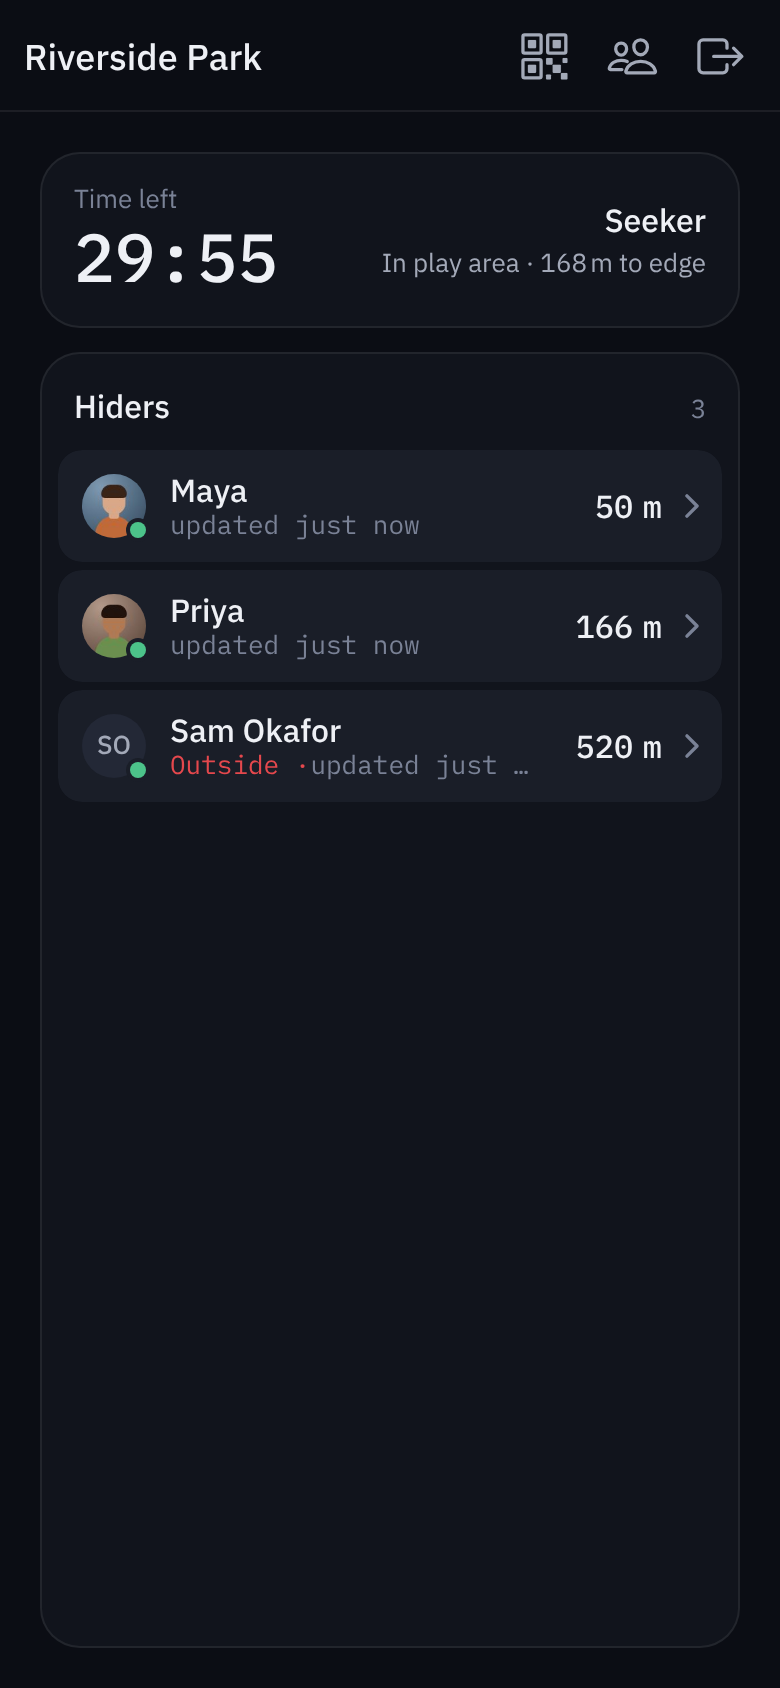
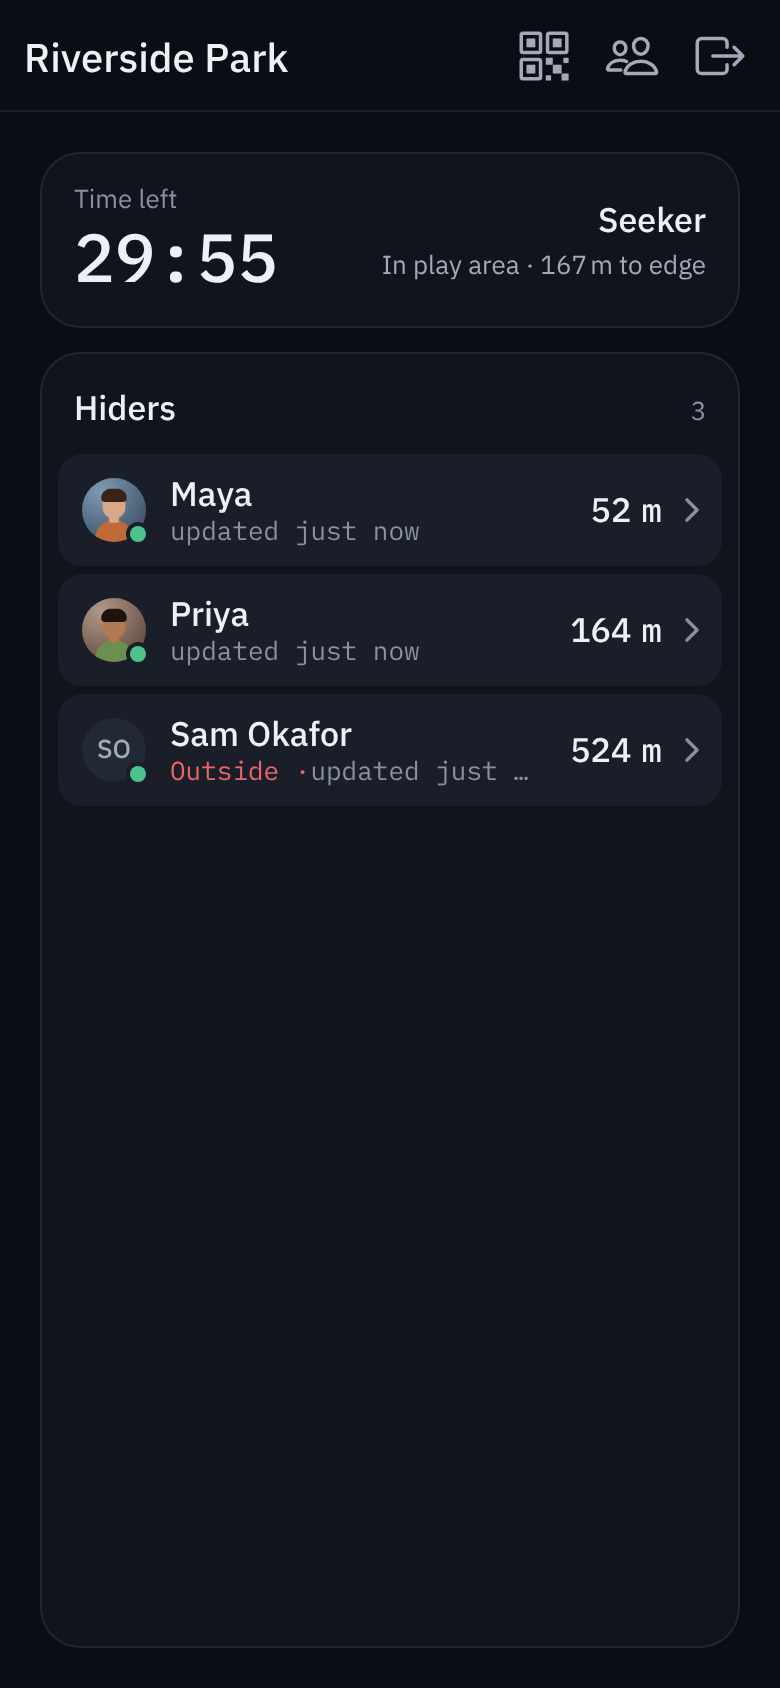
Bring text up to iOS sizes and WCAG AA contrast
Sizes follow iOS's default text styles: body 17 (was 16), secondary 15,
titles 20, headings 24, footnotes stay 13, and the map's 10px labels
reach 11-12. Body lines are 22px and heading lines 32px to match.

The dimmest grey (text-3) and the warning red fell below 4.5:1 on rows
and the selected row (as low as 3.8:1); both are lightened just enough to
pass on every surface. A check of every visible text on the main screens
finds nothing under 11px or under AA contrast, and the clipping audit is
clean at 320, 375 and 390px. Regenerates the walkthrough screenshots.

Claude-Session: https://claude.ai/code/session_01U4L74gDXuUMueiJ4CSkGKG

diff --git a/src/index.css b/src/index.css
@@ -64,11 +64,13 @@
   /* ---- Type ---- */
   --font-sans: "IBM Plex Sans", -apple-system, BlinkMacSystemFont, "Segoe UI", Roboto, sans-serif;
   --font-mono: "IBM Plex Mono", ui-monospace, "SF Mono", Menlo, monospace;
-  --fs-meta: 0.8125rem;    /* 13 / 16 */
-  --fs-caption: 0.875rem;  /* 14 / 20 */
-  --fs-body: 1rem;         /* 16 / 20 */
-  --fs-title: 1.125rem;    /* 18 / 24 */
-  --fs-heading: 1.375rem;  /* 22 / 28 */
+  /* Sized to iOS's default text sizes (body 17, footnote 13, nothing under
+     11), so the app reads like the rest of the phone at arm's length */
+  --fs-meta: 0.8125rem;    /* 13 / 16  footnote */
+  --fs-caption: 0.9375rem; /* 15 / 20  subheadline */
+  --fs-body: 1.0625rem;    /* 17 / 22  body */
+  --fs-title: 1.25rem;     /* 20 / 24  title 3 */
+  --fs-heading: 1.5rem;    /* 24 / 32 */
   --fs-page: 1.875rem;     /* 30 / 32 */
   --fs-figure: 2.75rem;    /* 44 / 48 */
 
@@ -81,8 +83,9 @@
   --hairline-color: rgba(238, 240, 245, 0.08);
   --hairline: 1px solid var(--hairline-color);
   --text-1: #eef0f5;
+  /* Every text colour clears WCAG AA (4.5:1) on every surface, ink-4 included */
   --text-2: #a3a9b8;
-  --text-3: #7a8296;
+  --text-3: #8990a2;
 
   /* ---- Accent: blaze orange, with dark text on it (7:1) ---- */
   --accent: #ff7b2c;
@@ -92,7 +95,7 @@
 
   /* ---- Semantic, toned for the ramp ---- */
   --positive: #4cc38a;
-  --negative: #e5484d;
+  --negative: #eb656a;
 
   /* ---- Motion: one curve, two durations ---- */
   --ease: cubic-bezier(0.22, 1, 0.36, 1);
@@ -166,7 +169,7 @@ body {
 ion-content {
   --background: var(--ink-1);
   font-size: var(--fs-body);
-  line-height: 1.25rem;
+  line-height: 1.375rem;
 }
 
 ion-content.ion-padding {
@@ -742,7 +745,7 @@ ion-card.targets-card ion-card-header.targets-card-header {
 
 ion-card.targets-card ion-card-title {
   font-size: var(--fs-body);
-  line-height: 1.25rem;
+  line-height: 1.375rem;
 }
 
 .targets-count {
@@ -803,7 +806,7 @@ ion-item.targets-item ion-label {
 ion-item.targets-item ion-label h2 {
   margin: 0;
   font-size: var(--fs-body);
-  line-height: 1.25rem;
+  line-height: 1.375rem;
   font-weight: 500;
   color: var(--text-1);
 }
@@ -840,7 +843,7 @@ ion-item p.player-freshness,
   margin-inline-start: var(--space-3);
   font-family: var(--font-mono);
   font-size: var(--fs-body);
-  line-height: 1.25rem;
+  line-height: 1.375rem;
   font-weight: 500;
   color: var(--text-1);
   white-space: nowrap;
@@ -1113,7 +1116,7 @@ ion-modal.permissions-dialog .permissions-dialog-body {
 ion-modal.permissions-dialog .permissions-dialog-body > h2 {
   margin: var(--space-5) 0 var(--space-4);
   font-size: var(--fs-heading);
-  line-height: 1.75rem;
+  line-height: 2rem;
   font-weight: 500;
 }
 
@@ -1136,7 +1139,7 @@ ion-modal.permissions-dialog ion-item {
 ion-modal.permissions-dialog ion-label h3 {
   margin: var(--space-3) 0 var(--space-1);
   font-size: var(--fs-body);
-  line-height: 1.25rem;
+  line-height: 1.375rem;
   font-weight: 500;
   color: var(--text-1);
 }
@@ -1398,7 +1401,7 @@ ion-item.share-id-row ion-note {
 
 .avatar--lg .avatar-initials {
   font-size: var(--fs-heading);
-  line-height: 1.75rem;
+  line-height: 2rem;
 }
 
 /* The fix dot sits on the picture's lower edge, ringed in the row colour */
@@ -1518,7 +1521,7 @@ ion-content .name-card.settings-row {
 .settings-row ion-label h2 {
   margin: 0;
   font-size: var(--fs-body);
-  line-height: 1.25rem;
+  line-height: 1.375rem;
   font-weight: 500;
   color: var(--text-1);
 }
@@ -1588,7 +1591,7 @@ ion-content .name-card.settings-row {
 
 .status-role {
   font-size: var(--fs-body);
-  line-height: 1.25rem;
+  line-height: 1.375rem;
   font-weight: 500;
   color: var(--text-1);
 }
@@ -1615,7 +1618,7 @@ ion-content .name-card.settings-row {
 /* ===== GAME OVER ===== */
 ion-card.game-over-card ion-card-title {
   font-size: var(--fs-heading);
-  line-height: 1.75rem;
+  line-height: 2rem;
 }
 
 .game-over-result {
@@ -1685,7 +1688,7 @@ ion-modal ion-list.settings-list ion-item {
 
 ion-list.settings-list ion-label h2 {
   font-size: var(--fs-body);
-  line-height: 1.25rem;
+  line-height: 1.375rem;
   font-weight: 500;
   color: var(--text-1);
 }
@@ -1776,7 +1779,7 @@ ion-toolbar ion-buttons ion-button.toolbar-primary {
 .play-area-map .leaflet-control-attribution {
   background: rgba(11, 13, 20, 0.75);
   color: var(--text-3);
-  font-size: 0.625rem;
+  font-size: 0.6875rem;
 }
 
 .play-area-map .leaflet-control-attribution a {
@@ -1804,7 +1807,7 @@ ion-toolbar ion-buttons ion-button.toolbar-primary {
   border: 2px solid var(--ink-1);
   color: var(--on-accent);
   font-family: var(--font-mono);
-  font-size: 0.625rem;
+  font-size: 0.75rem;
   font-weight: 500;
 }
 
